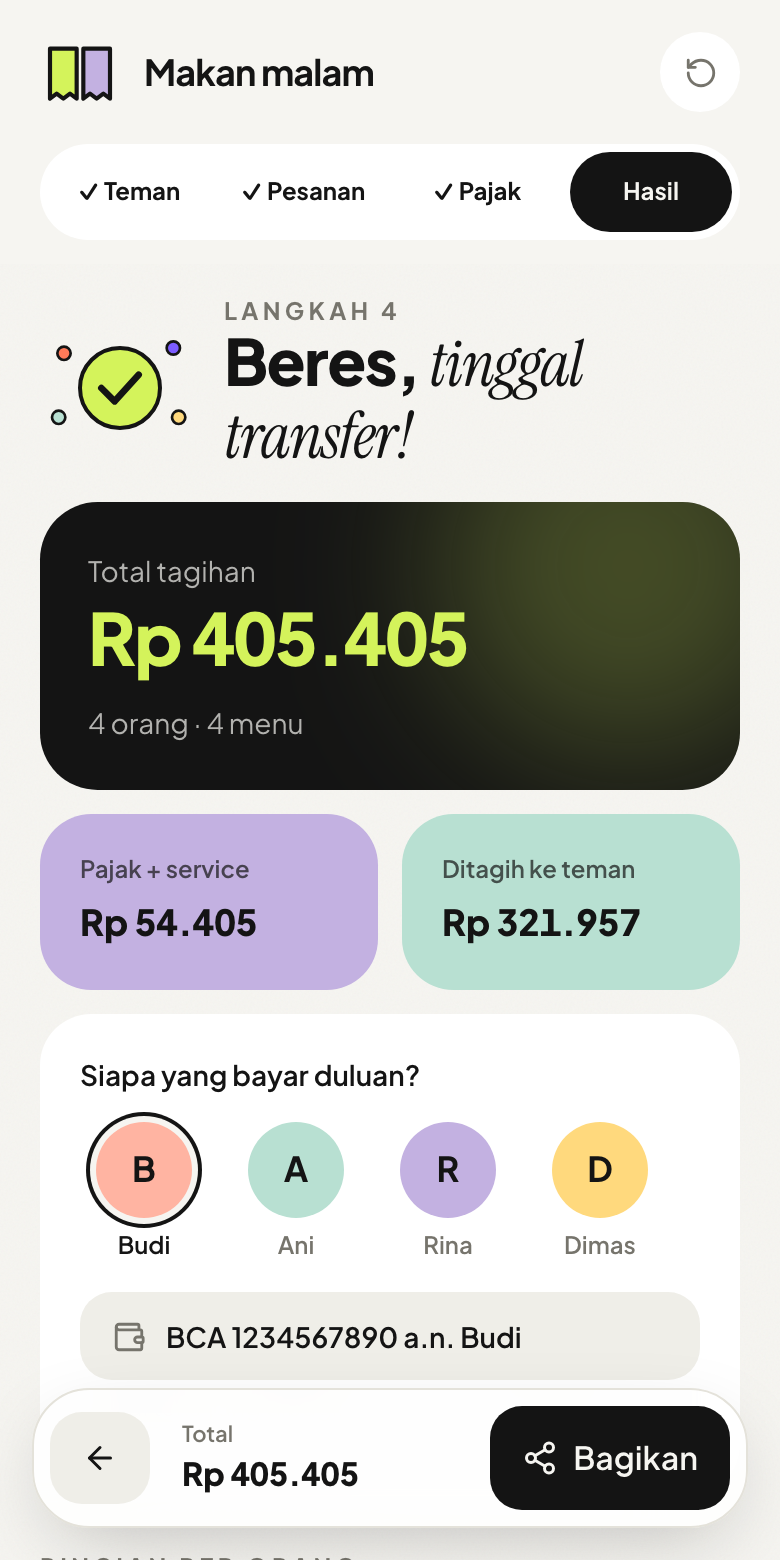
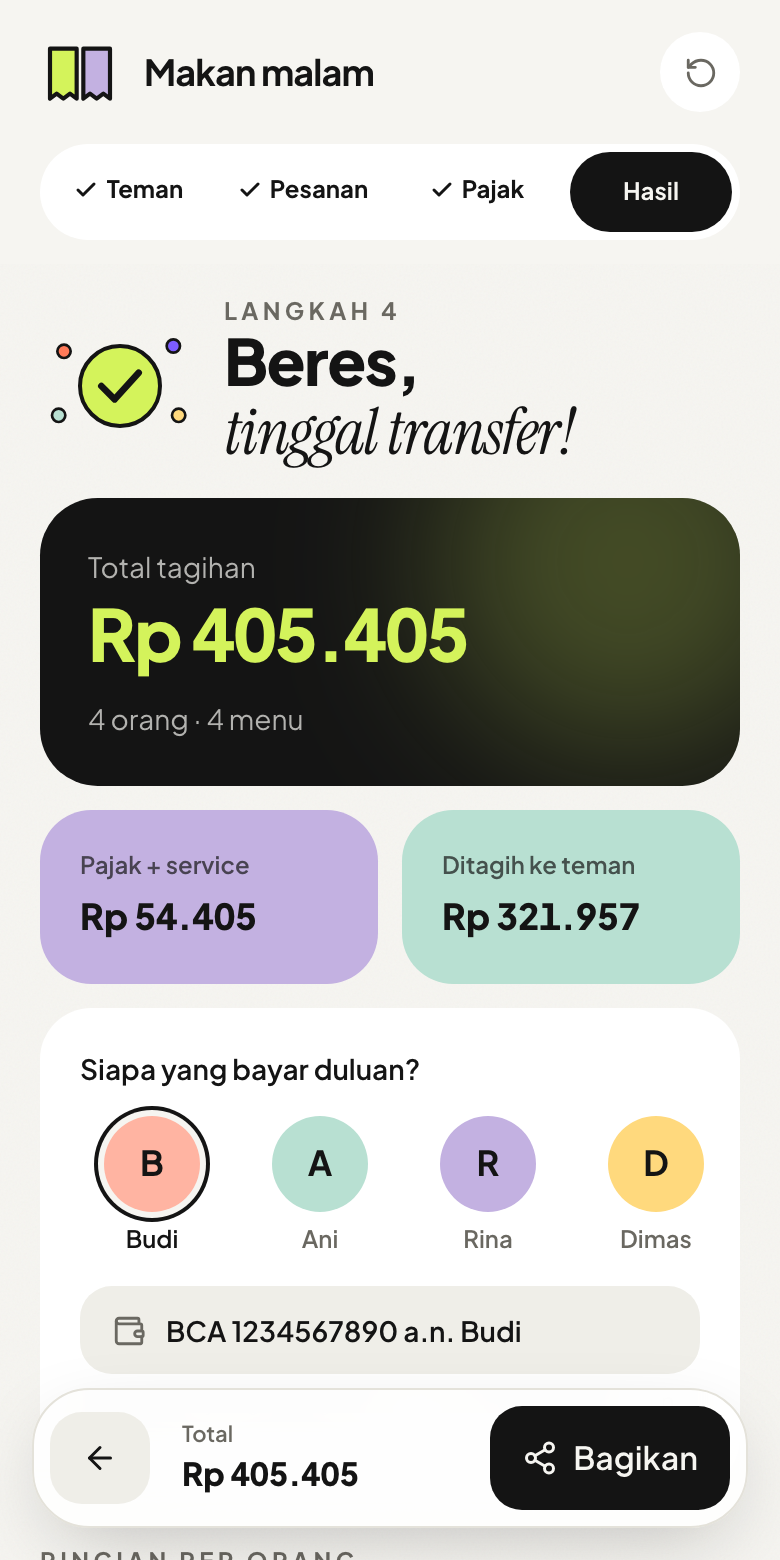
style: polish detail desain tanpa mengubah karakternya
Warna, ilustrasi berwajah, bento, aksen serif, dan confetti tetap sama.
Yang dirapikan hanya detail:

- Rincian per orang: subjudul "Transfer ke → nama" sebelumnya meluap
  dan menimpa nominal di layar 320 px. Sekarang satu baris dan terpotong
  rapi, nominal tidak ikut menyusut, dan di layar sempit cukup "→ nama"
- Pilihan pembayar: kolom nama 72 px supaya "Muhammad" tidak terbelah
  jadi "Muhamma d"
- Kartu Pajak + service dan Ditagih ke teman: angka menyesuaikan lebar
  layar dan tidak terbelah jadi "Rp" / angka di 320 px
- Avatar di bawah 32 px cukup satu huruf supaya tumpukan avatar dan chip
  pemesan tidak sesak
- Frasa miring di judul ("ikut makan?", "apa aja?", "tinggal
  transfer!") tidak lagi terpotong di tengah frasa
- Tanda centang di navigasi langkah dan chip pemesan terpilih memakai
  ikon Lucide, jadi status tidak hanya bergantung pada warna
- Warna muted light #6a6861: kontras 5,1:1 di latar dan 4,8:1 di isian
  (sebelumnya 4,3 dan 4,0)
- Ring fokus keyboard untuk tombol dan warna seleksi teks lime
- Screenshot README diambil ulang

diff --git a/src/features/result/ResultStep.tsx b/src/features/result/ResultStep.tsx
@@ -28,7 +28,7 @@ export function ResultStep({ bill, result, dispatch }: { bill: Bill; result: Bil
         <div>
           <p className="text-xs font-bold tracking-[0.18em] text-muted uppercase">Langkah 4</p>
           <h2 className="text-[2rem] leading-[1.05] font-extrabold tracking-tight">
-            Beres, <span className="font-serif font-normal italic">tinggal transfer!</span>
+            Beres, <span className="font-serif font-normal italic min-[360px]:whitespace-nowrap">tinggal transfer!</span>
           </h2>
         </div>
       </motion.div>
@@ -49,13 +49,13 @@ export function ResultStep({ bill, result, dispatch }: { bill: Bill; result: Bil
           </p>
         </motion.div>
 
-        <motion.div variants={rise} className="rounded-[1.6rem] bg-[#C3B1E1] p-5 text-[#141414]">
+        <motion.div variants={rise} className="rounded-[1.6rem] bg-[#C3B1E1] p-4 text-[#141414] min-[360px]:p-5">
           <p className="text-xs font-semibold opacity-70">Pajak + service</p>
-          <AnimatedRupiah value={result.tax + result.service} className="mt-1 block text-lg font-extrabold" />
+          <AnimatedRupiah value={result.tax + result.service} className="mt-1 block text-[clamp(15px,4.6vw,18px)] font-extrabold whitespace-nowrap" />
         </motion.div>
-        <motion.div variants={rise} className="rounded-[1.6rem] bg-[#B8E0D2] p-5 text-[#141414]">
+        <motion.div variants={rise} className="rounded-[1.6rem] bg-[#B8E0D2] p-4 text-[#141414] min-[360px]:p-5">
           <p className="text-xs font-semibold opacity-70">Ditagih ke teman</p>
-          <AnimatedRupiah value={owed} className="mt-1 block text-lg font-extrabold" />
+          <AnimatedRupiah value={owed} className="mt-1 block text-[clamp(15px,4.6vw,18px)] font-extrabold whitespace-nowrap" />
         </motion.div>
 
         <motion.div variants={rise} className="col-span-2 rounded-[1.6rem] bg-surface p-5">
@@ -67,7 +67,7 @@ export function ResultStep({ bill, result, dispatch }: { bill: Bill; result: Bil
                 whileTap={{ scale: 0.9 }}
                 onClick={() => dispatch({ type: 'payer', id: p.id })}
                 aria-pressed={p.id === bill.payerId}
-                className="flex w-16 shrink-0 flex-col items-center gap-1.5"
+                className="flex w-[72px] shrink-0 flex-col items-center gap-1.5"
               >
                 <Avatar name={p.name} color={p.color} size={48} selected={p.id === bill.payerId} />
                 <span className={`line-clamp-2 w-full text-center text-xs leading-tight font-semibold wrap-break-word ${p.id === bill.payerId ? 'text-ink' : 'text-muted'}`}>
@@ -115,20 +115,22 @@ export function ResultStep({ bill, result, dispatch }: { bill: Bill; result: Bil
                 <Avatar name={p.name} color={p.color} size={42} />
                 <div className="min-w-0 flex-1">
                   <p className="truncate font-semibold">{p.name}</p>
-                  <p className="flex items-center gap-1 text-xs text-muted">
+                  <p className="truncate text-xs text-muted">
                     {isPayer ? (
                       <span className="font-semibold text-violet">Yang bayar duluan</span>
                     ) : payer ? (
                       <>
-                        Transfer ke <ArrowRight size={11} /> <b className="text-ink">{payer.name}</b>
+                        {/* Di layar sempit cukup panah + nama supaya nama tujuan tetap terbaca. */}
+                        <span className="max-[359px]:sr-only">Transfer ke </span>
+                        <ArrowRight size={11} className="inline align-[-1px]" aria-hidden /> <b className="text-ink">{payer.name}</b>
                       </>
                     ) : (
                       `${r.lines.length} menu`
                     )}
                   </p>
                 </div>
-                <AnimatedRupiah value={r.total} className="font-extrabold" />
-                <motion.span animate={{ rotate: open ? 180 : 0 }} className="text-muted">
+                <AnimatedRupiah value={r.total} className="shrink-0 font-extrabold" />
+                <motion.span animate={{ rotate: open ? 180 : 0 }} className="shrink-0 text-muted">
                   <ChevronDown size={18} />
                 </motion.span>
               </button>

diff --git a/src/app/StepNav.tsx b/src/app/StepNav.tsx
@@ -1,3 +1,4 @@
+import { Check } from 'lucide-react'
 import { motion } from 'motion/react'
 import { STEPS } from '../domain/steps'
 
@@ -18,8 +19,10 @@ export function StepNav({ step, onSelect }: { step: number; onSelect: (step: num
               transition={{ type: 'spring', stiffness: 420, damping: 34 }}
             />
           )}
-          <span className={`relative transition-colors ${i === step ? 'text-bg' : i < step ? 'text-ink' : 'text-muted'}`}>
-            {i < step ? '✓ ' : ''}
+          <span
+            className={`relative inline-flex items-center justify-center gap-1 transition-colors ${i === step ? 'text-bg' : i < step ? 'text-ink' : 'text-muted'}`}
+          >
+            {i < step && <Check size={12} strokeWidth={3} aria-hidden />}
             {label}
           </span>
         </button>

diff --git a/src/features/items/ItemForm.tsx b/src/features/items/ItemForm.tsx
@@ -1,5 +1,5 @@
 import { AnimatePresence, motion } from 'motion/react'
-import { Minus, Plus, Trash2, Users } from 'lucide-react'
+import { Check, Minus, Plus, Trash2, Users } from 'lucide-react'
 import { useState } from 'react'
 import { toast } from 'sonner'
 import type { Bill, Item } from '../../domain/bill'
@@ -103,6 +103,7 @@ export function ItemForm({
               >
                 <Avatar name={p.name} color={p.color} size={28} />
                 {p.name}
+                {on && <Check size={14} strokeWidth={3} aria-hidden />}
               </motion.button>
             )
           })}

diff --git a/src/index.css b/src/index.css
@@ -25,7 +25,7 @@
   --surface: #ffffff;
   --surface-2: #efeee8;
   --ink: #141414;
-  --muted: #76746c;
+  --muted: #6a6861;
   --line: #e4e2da;
   --hero: #141414;
   color-scheme: light;
@@ -41,6 +41,18 @@
     --line: #2f2e2a;
     --hero: #262623;
     color-scheme: dark;
+  }
+}
+
+@layer base {
+  ::selection {
+    background: color-mix(in oklab, var(--color-lime) 55%, transparent);
+    color: #141414;
+  }
+
+  button:focus-visible {
+    outline: 2px solid var(--ink);
+    outline-offset: 2px;
   }
 }
 

diff --git a/src/lib/format.ts b/src/lib/format.ts
@@ -7,10 +7,10 @@ export const rupiah = (n: number) => idr.format(Math.round(n)).replace(/\s/g, ' 
 export const thousands = (n: number) => (n ? plain.format(n) : '')
 export const parseNumber = (s: string) => Number(s.replace(/[^\d]/g, '')) || 0
 
-export const initials = (name: string) =>
+export const initials = (name: string, max = 2) =>
   name
     .trim()
     .split(/\s+/)
-    .slice(0, 2)
+    .slice(0, max)
     .map((w) => [...graphemes.segment(w)][0]?.segment.toUpperCase() ?? '')
     .join('')

diff --git a/src/features/items/ItemsStep.tsx b/src/features/items/ItemsStep.tsx
@@ -38,7 +38,7 @@ export function ItemsStep({ bill, dispatch }: { bill: Bill; dispatch: Dispatch<A
 
   return (
     <div>
-      <SectionTitle eyebrow="Langkah 2" title={<>Pesan <span className="font-serif font-normal italic">apa aja?</span></>}>
+      <SectionTitle eyebrow="Langkah 2" title={<>Pesan <span className="font-serif font-normal whitespace-nowrap italic">apa aja?</span></>}>
         Satu menu bisa dibagi ke beberapa orang, harganya otomatis dibagi rata.
       </SectionTitle>
 

diff --git a/src/features/people/PeopleStep.tsx b/src/features/people/PeopleStep.tsx
@@ -32,7 +32,7 @@ export function PeopleStep({ bill, dispatch }: { bill: Bill; dispatch: Dispatch<
 
   return (
     <div>
-      <SectionTitle eyebrow="Langkah 1" title={<>Siapa aja yang <span className="font-serif font-normal italic">ikut makan?</span></>} />
+      <SectionTitle eyebrow="Langkah 1" title={<>Siapa aja yang <span className="font-serif font-normal whitespace-nowrap italic">ikut makan?</span></>} />
 
       <form
         onSubmit={(e) => {

diff --git a/src/lib/format.test.ts b/src/lib/format.test.ts
@@ -37,6 +37,11 @@ describe('initials', () => {
     expect(initials('   ')).toBe('')
   })
 
+  it('bisa dibatasi satu huruf untuk avatar kecil', () => {
+    expect(initials('Budi Santoso', 1)).toBe('B')
+    expect(initials('Ani 😎', 1)).toBe('A')
+  })
+
   it('tidak memotong emoji jadi separuh karakter', () => {
     expect(initials('Ani 😎')).toBe('A😎')
     expect(initials('Rina 🇮🇩')).toBe('R🇮🇩')

diff --git a/src/ui/Avatar.tsx b/src/ui/Avatar.tsx
@@ -13,7 +13,8 @@ export function Avatar({ name, color, size = 40, selected }: { name: string; col
         boxShadow: selected ? `0 0 0 3px var(--bg), 0 0 0 5px var(--ink)` : undefined,
       }}
     >
-      {initials(name) || '?'}
+      {/* Di ukuran kecil dua huruf terlalu sesak, jadi cukup huruf pertama. */}
+      {initials(name, size < 32 ? 1 : 2) || '?'}
     </span>
   )
 }
